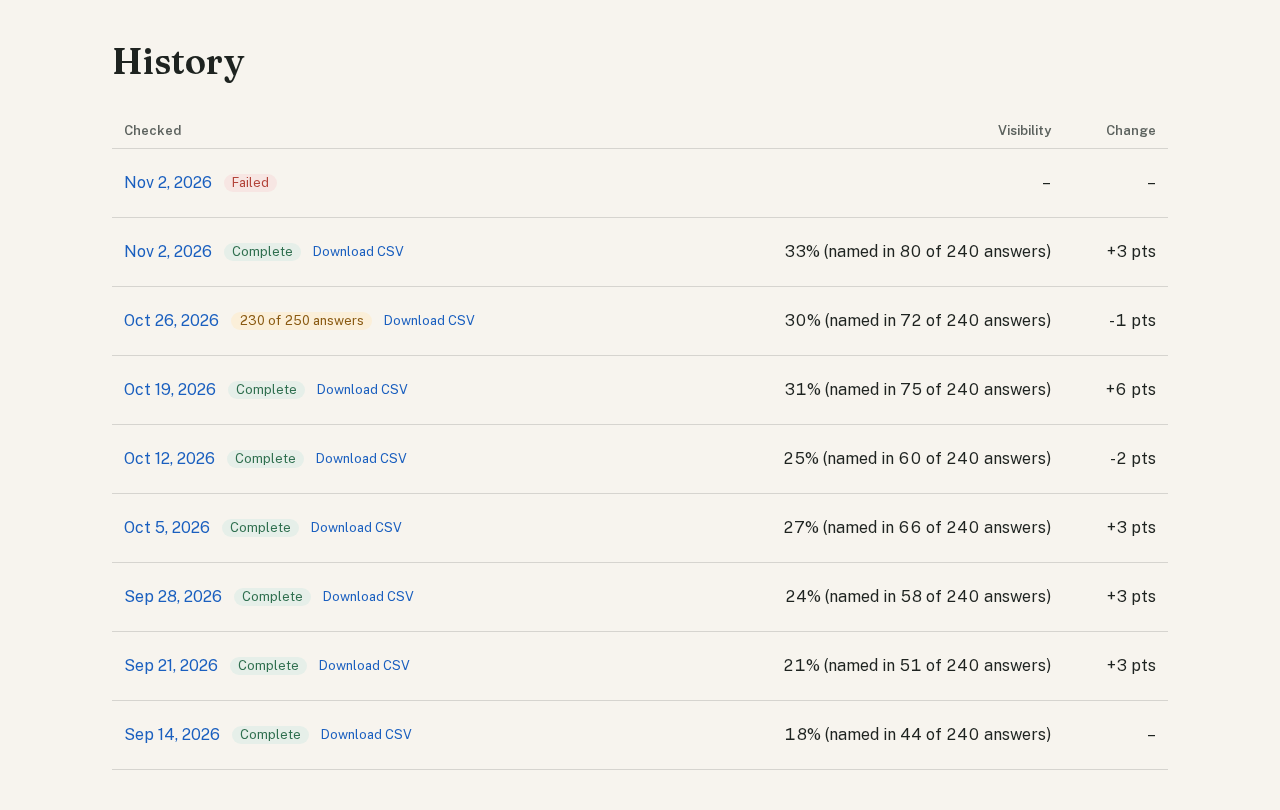
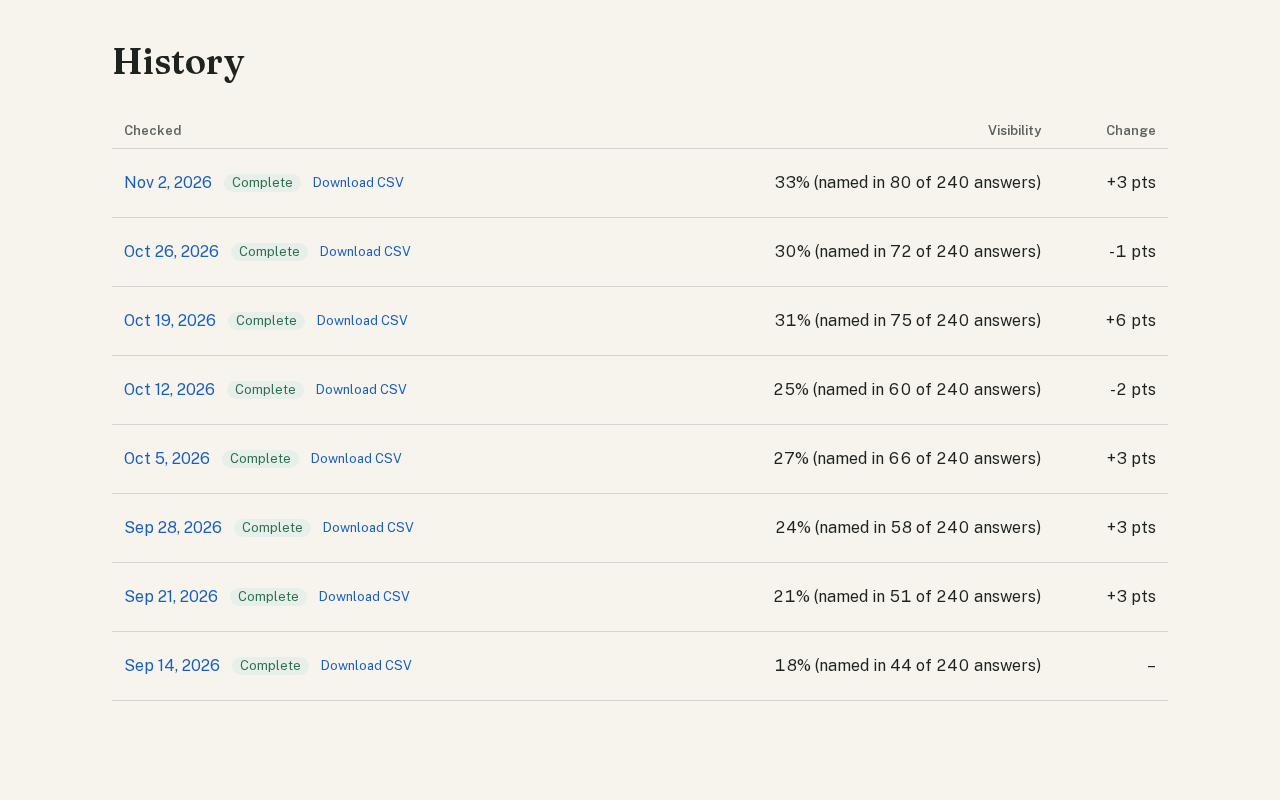
test(app): gallery states for every page's loading, error and partial view
Lead Q1 on #40: Competitors and Questions loading/error, History loading,
and a separate partial shot per page (success now shows the all-ok case).

Refs #37

diff --git a/src/app/dev/app/Gallery.tsx b/src/app/dev/app/Gallery.tsx
@@ -23,6 +23,23 @@ const series = seriesFromSummaries(exampleRuns);
 const none = { points: [], visible: false };
 const noop = async () => undefined;
 const actions = { add: noop, dismiss: noop };
+const results = "We couldn't load your results. Try again.";
+// Success = everything answered; partial = the 4b partial state of the same page.
+const allOk = {
+  ...exampleQuestions,
+  questions: exampleQuestions.questions.map((q) => ({
+    ...q,
+    answers: q.answers.map((a) =>
+      a.status === "failed" ? { ...a, status: "ok" as const, mentioned: false, text: a.text ?? "Example data." } : a,
+    ),
+  })),
+};
+const allComplete = exampleRuns.map((r) => ({
+  ...r,
+  status: "complete" as const,
+  jobs_ok: r.jobs_total,
+  jobs_failed: 0,
+}));
 
 // Every UI.md 4b state of the self-serve pages with Example data. ?state= picks one.
 export const STATES: Record<string, () => React.ReactNode> = {
@@ -46,9 +63,7 @@ export const STATES: Record<string, () => React.ReactNode> = {
     />
   ),
   "dashboard-loading": () => <Skeleton title="Dashboard" />,
-  "dashboard-error": () => (
-    <ErrorState title="Dashboard" message="We couldn't load your results. Try again." reset={() => {}} />
-  ),
+  "dashboard-error": () => <ErrorState title="Dashboard" message={results} reset={() => {}} />,
   "competitors-success": () => (
     <CompetitorsView
       latest={exampleLatest}
@@ -58,12 +73,22 @@ export const STATES: Record<string, () => React.ReactNode> = {
       now={NOW}
     />
   ),
+  "competitors-partial": () => (
+    <CompetitorsView latest={examplePartial} tracked={exampleTracked} suggestions={[]} actions={actions} now={NOW} />
+  ),
+  "competitors-loading": () => <Skeleton title="Competitors" />,
+  "competitors-error": () => <ErrorState title="Competitors" message={results} reset={() => {}} />,
   "competitors-empty": () => (
     <CompetitorsView latest={null} tracked={[]} suggestions={[]} actions={actions} now={NOW} />
   ),
-  "questions-success": () => <QuestionsView data={exampleQuestions} />,
+  "questions-success": () => <QuestionsView data={allOk} />,
+  "questions-partial": () => <QuestionsView data={exampleQuestions} />,
+  "questions-loading": () => <Skeleton title="Questions" />,
+  "questions-error": () => <ErrorState title="Questions" message={results} reset={() => {}} />,
   "questions-empty": () => <QuestionsView data={{ run: null, questions: [] }} />,
-  "history-success": () => <HistoryView runs={[exampleFailedRun, ...exampleRuns]} />,
+  "history-success": () => <HistoryView runs={allComplete} />,
+  "history-partial": () => <HistoryView runs={[exampleFailedRun, ...exampleRuns]} />,
+  "history-loading": () => <Skeleton title="History" />,
   "history-empty": () => <HistoryView runs={[]} />,
   "history-error": () => (
     <ErrorState title="History" message="We couldn't load your history. Try again." reset={() => {}} />

diff --git a/tests/e2e/app-shell.spec.ts b/tests/e2e/app-shell.spec.ts
@@ -11,11 +11,19 @@ const STATES = [
   "dashboard-loading",
   "dashboard-error",
   "competitors-success",
+  "competitors-partial",
   "competitors-empty",
+  "competitors-loading",
+  "competitors-error",
   "questions-success",
+  "questions-partial",
   "questions-empty",
+  "questions-loading",
+  "questions-error",
   "history-success",
+  "history-partial",
   "history-empty",
+  "history-loading",
   "history-error",
 ];
 
@@ -33,7 +41,7 @@ for (const state of STATES) {
 }
 
 test("questions drawer: keyboard opens it, Tab stays inside, Esc closes and focus returns", async ({ page }) => {
-  await page.goto("/dev/app?state=questions-success");
+  await page.goto("/dev/app?state=questions-partial");
   const row = page.getByRole("button", { name: /best ramen in Irvine/ });
   await row.focus();
   await page.keyboard.press("Enter");
